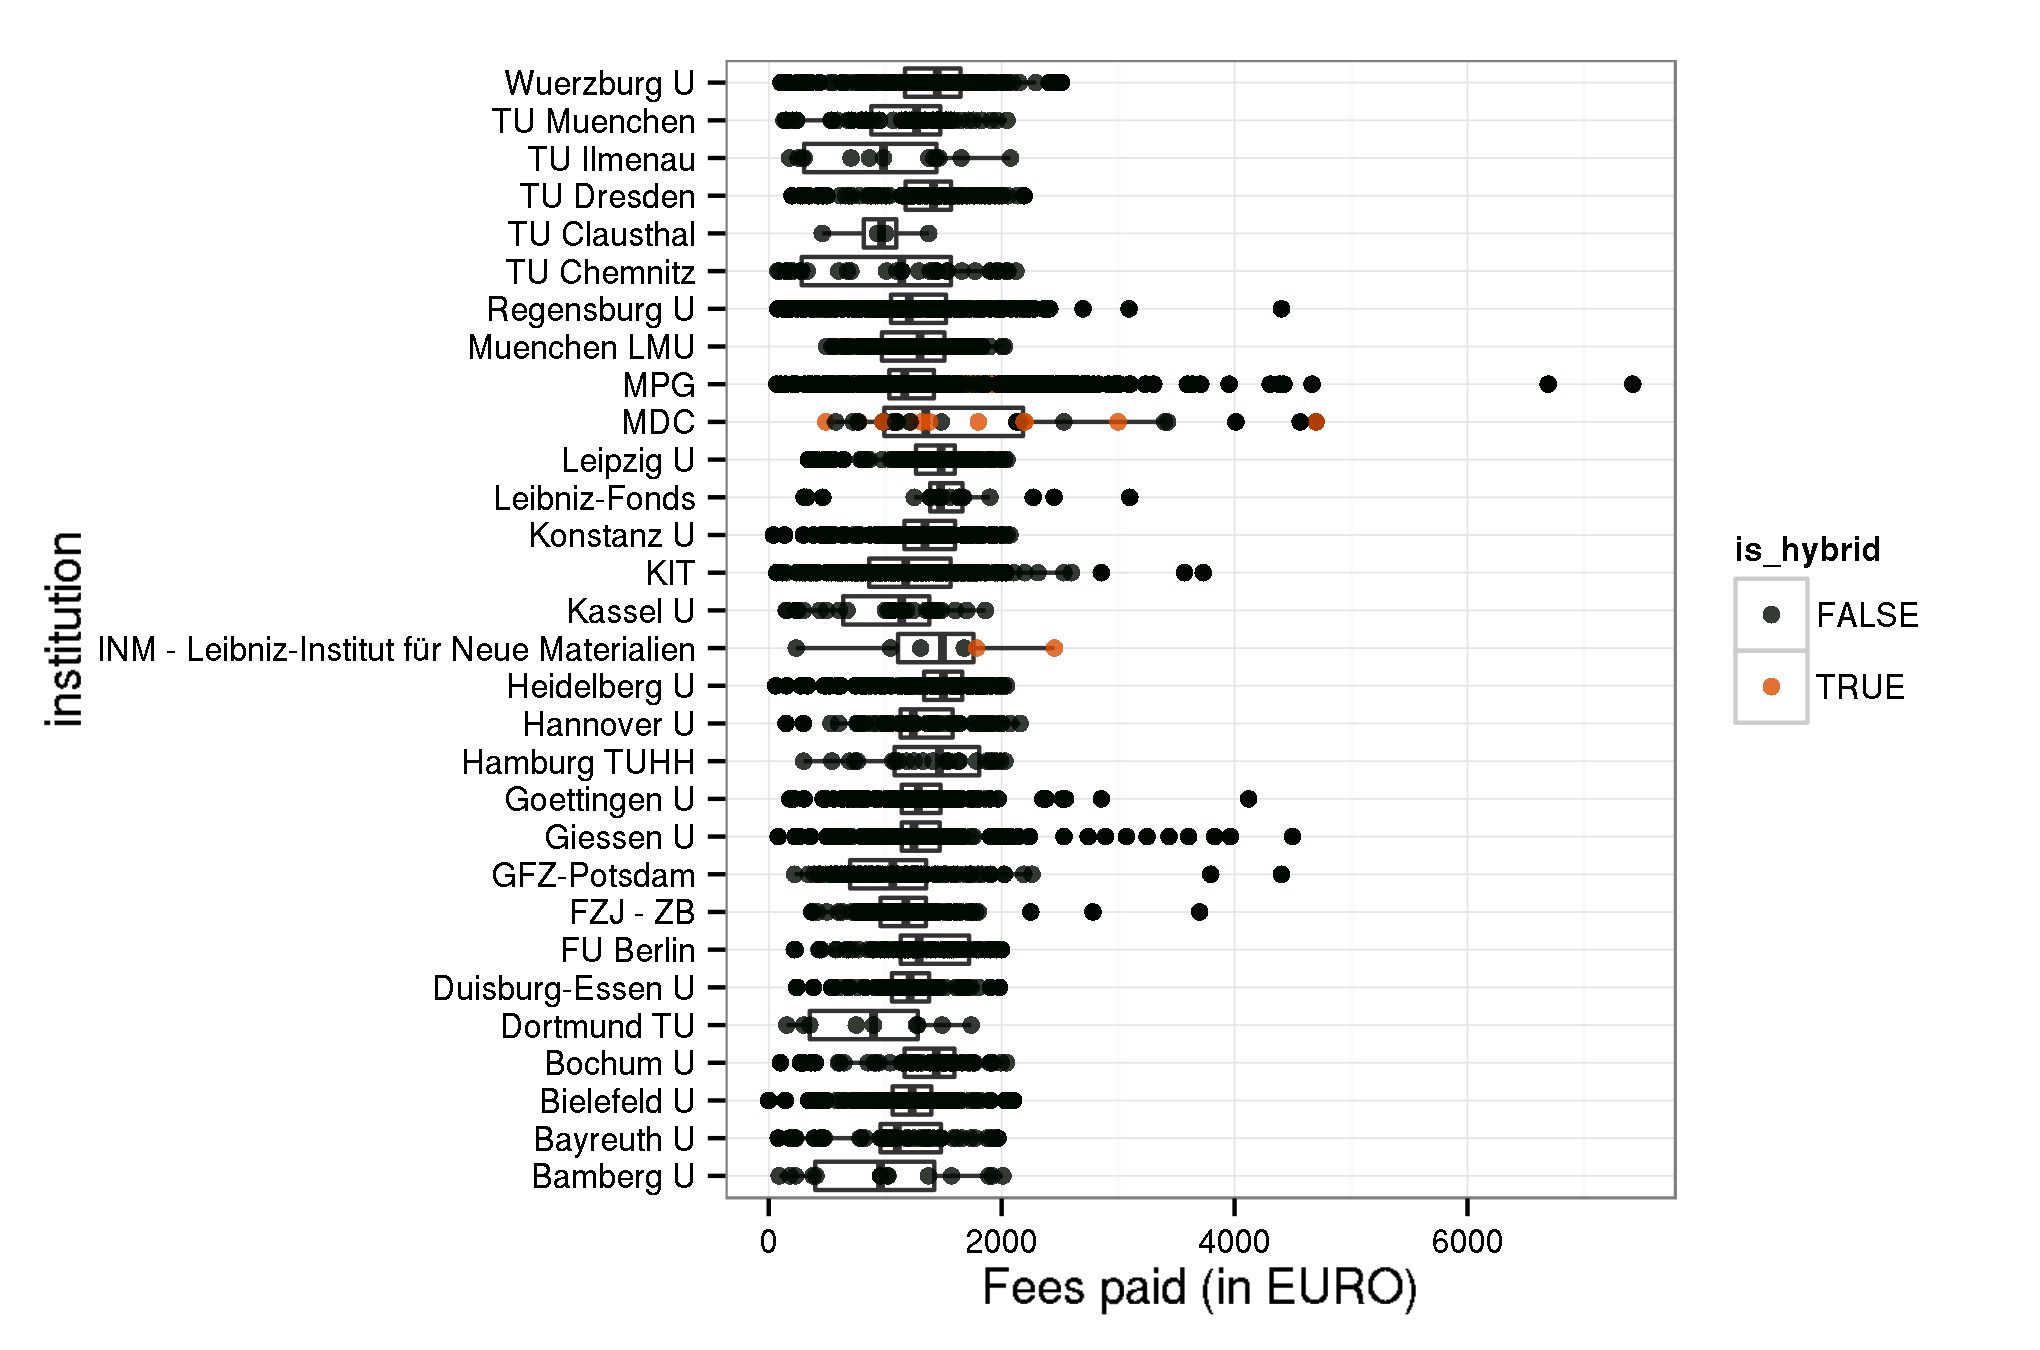
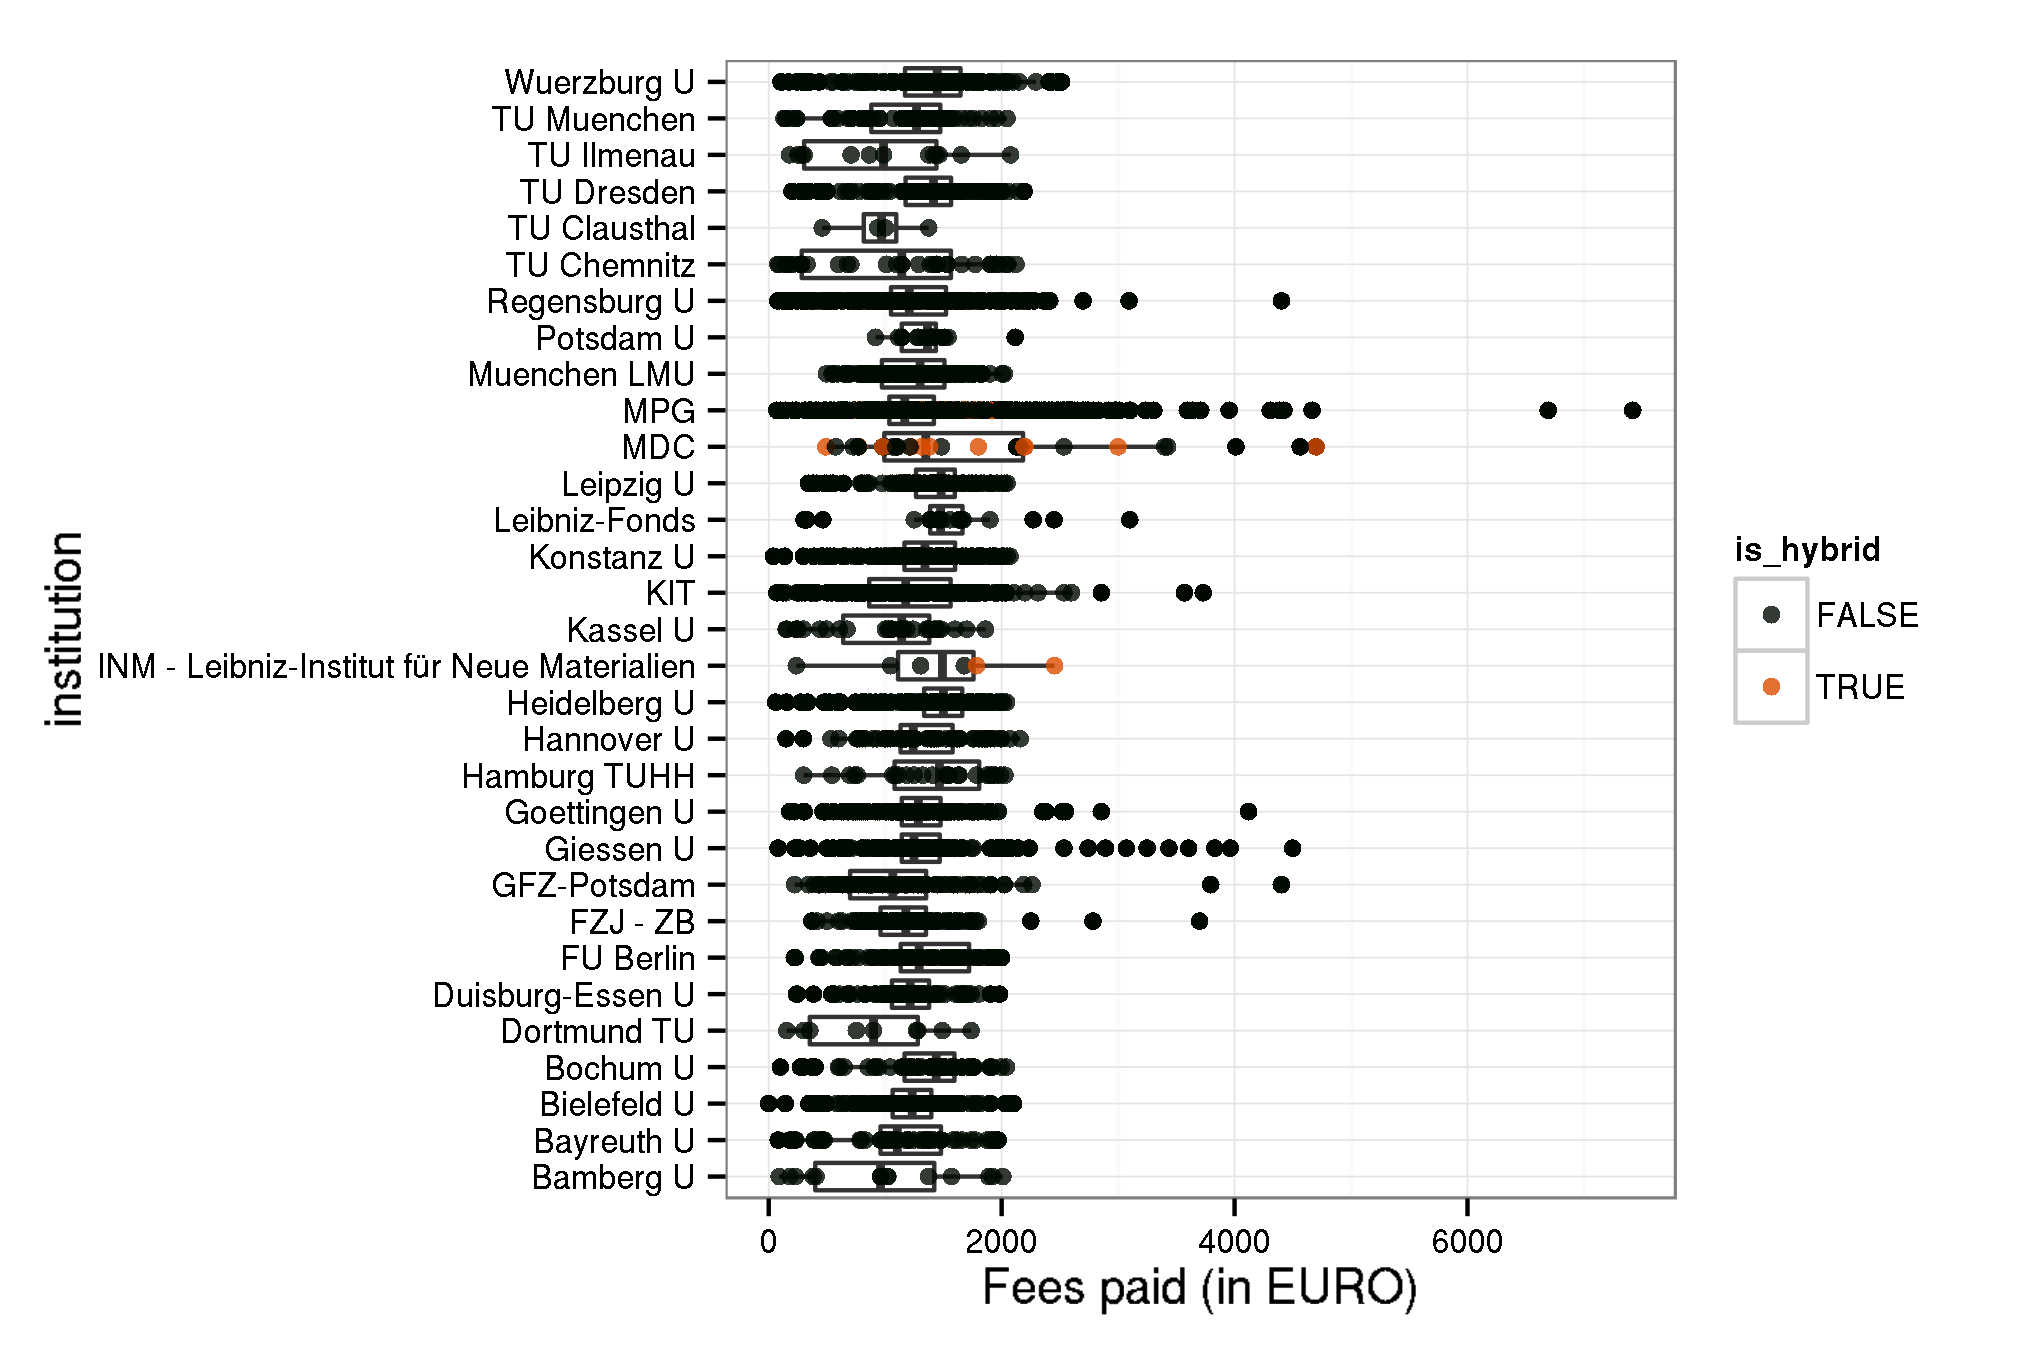
New institution: University of Potsdam

Changed region(s): [[0.0309, 0.0622, 0.6485, 0.8711], [0.7412, 0.28, 0.8029, 0.3111]]

diff --git a/README.md b/README.md
@@ -1,3 +1,6 @@
+
+
+
 ## About
 
 The aim of this repository is:
@@ -32,6 +35,7 @@ So far, the following German universities have agreed to share information on pa
 - [University of Göttingen](http://www.sub.uni-goettingen.de/en/electronic-publishing/open-access/open-access-publication-funding/)
 - [University of Kassel](http://www.uni-kassel.de/go/publikationsfonds)
 - [University of Konstanz](http://www.ub.uni-konstanz.de/openaccess/open-access-publikationsfonds-der-universitaet-konstanz/)
+- [University of Potsdam](https://publishup.uni-potsdam.de/home/index/help/content/publication_fund)
 - [University of Regensburg](http://oa.uni-regensburg.de/)
 - [University of Würzburg](http://www.bibliothek.uni-wuerzburg.de/en/service0/electronic_publishing/open_access/open_access_journals/)
 
@@ -53,15 +57,17 @@ The data content covers APCs as paid for by our central budget for the Max Planc
 
 ## Dataset
 
+
+
 Information on both open access journal articles and open access publication of articles in toll-access journals ("hybrid") are provided.
 
-In total,  8 566 226 € for  6 658 articles were paid by the participating unviversities. Average  fee is 1 286.6 € and the median 1 216 €.
+In total,  8 598 168 € for  6 682 articles were paid by the participating unviversities. Average  fee is 1 286.8 € and the median 1 216 €.
 
 ### Open Access Journals
 
 
 
-At the moment, the dataset releases information on 6 605 articles in open access journals which charge publication fees. Total expenditure amounts to  8 478 385 €. Average  fee is 1 283.6 € and the median 1 213 €.
+At the moment, the dataset releases information on 6 629 articles in open access journals which charge publication fees. Total expenditure amounts to  8 510 327 €. Average  fee is 1 283.8 € and the median 1 214 €.
 
 View dataset on [GitHub](https://github.com/OpenAPC/openapc-de/blob/master/data/apc_de.csv).
 
@@ -91,6 +97,7 @@ View dataset on [GitHub](https://github.com/OpenAPC/openapc-de/blob/master/data/
 |MDC                                         |       23|             41464|          1803|   1212|
 |MPG                                         |     2816|           3597571|          1278|   1161|
 |Muenchen LMU                                |      365|            463491|          1270|   1299|
+|Potsdam U                                   |       24|             31942|          1331|   1363|
 |Regensburg U                                |      401|            504642|          1258|   1207|
 |TU Chemnitz                                 |       36|             37826|          1051|   1142|
 |TU Clausthal                                |        4|              3771|           943|    969|
